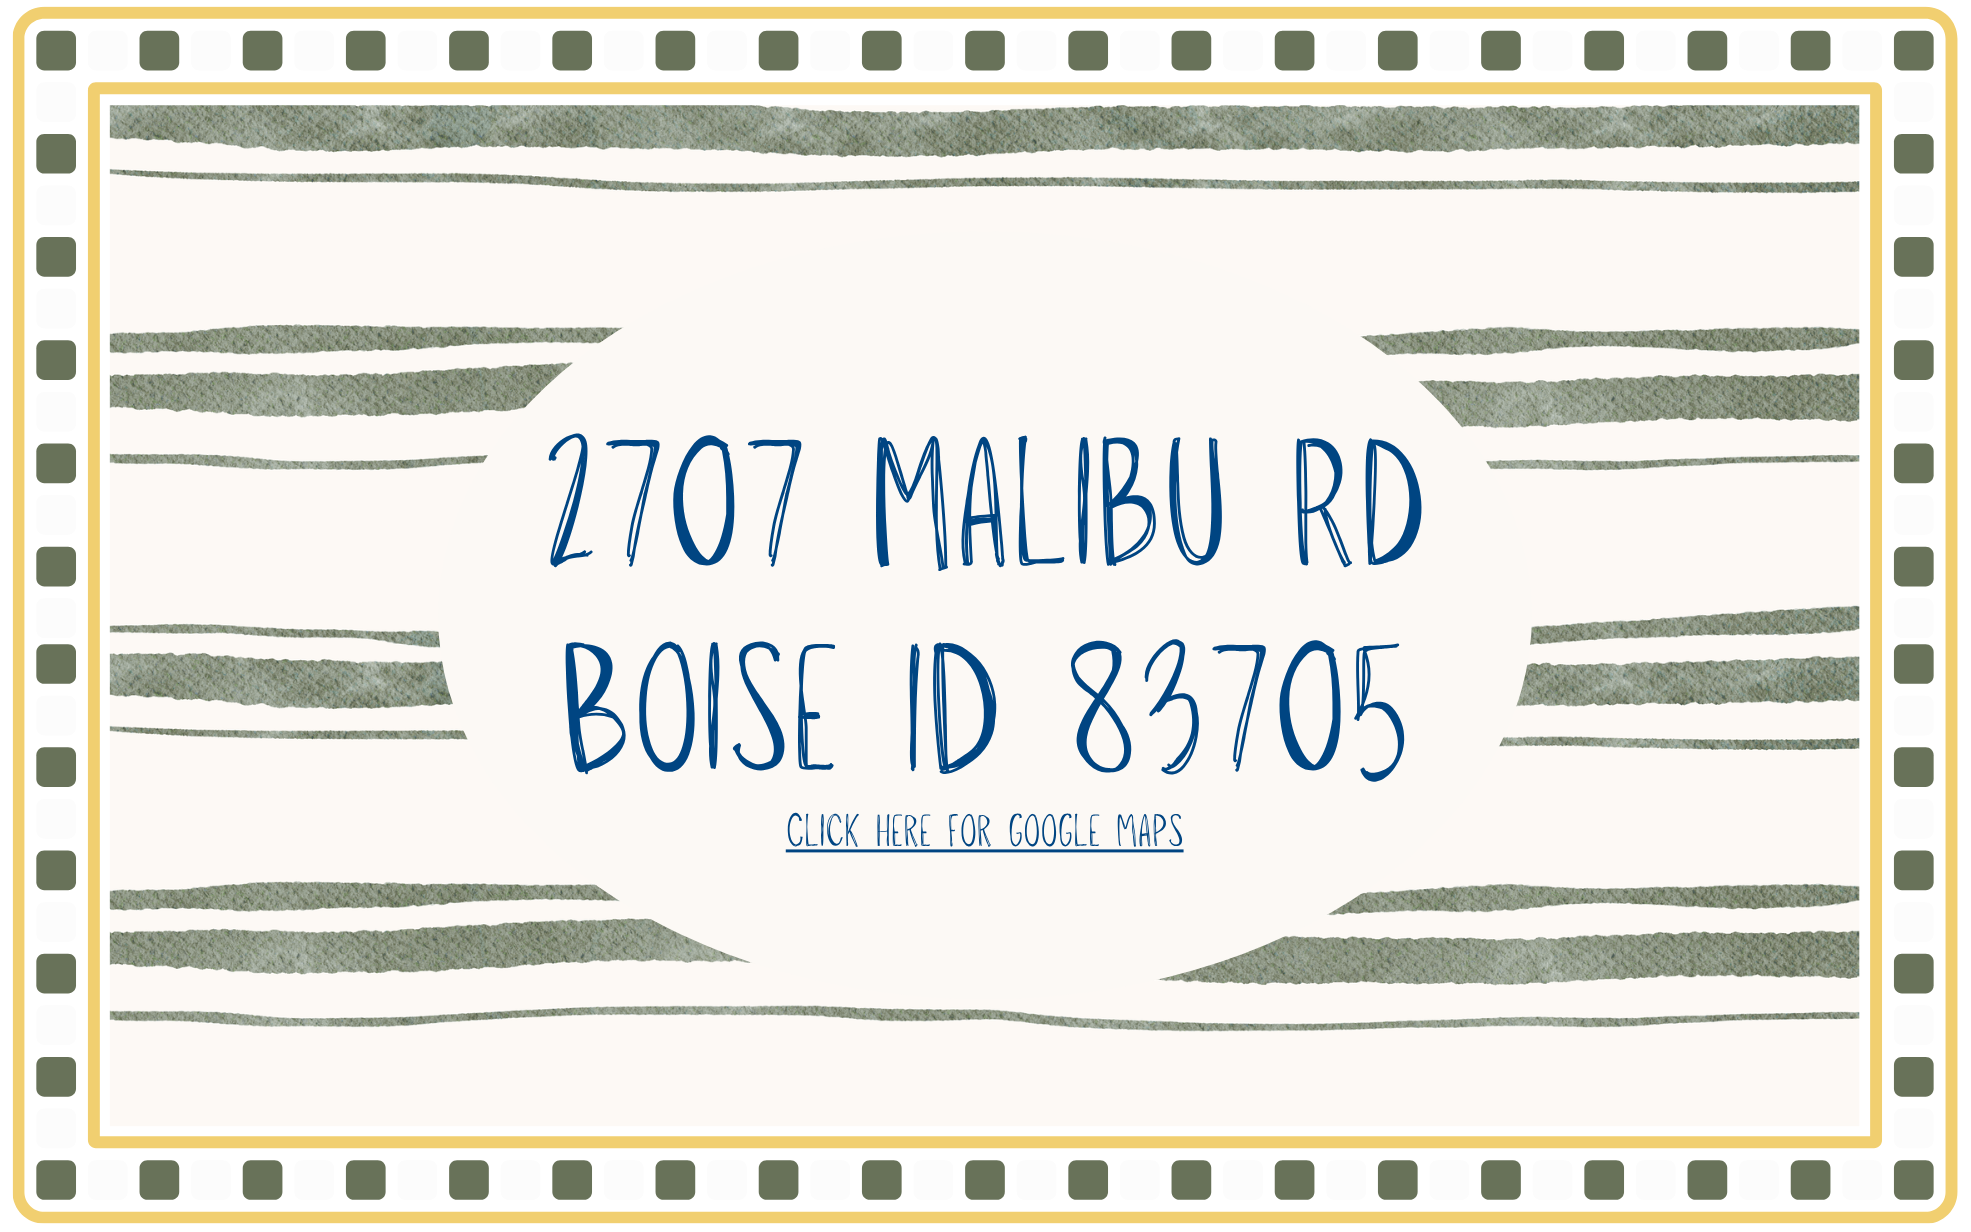
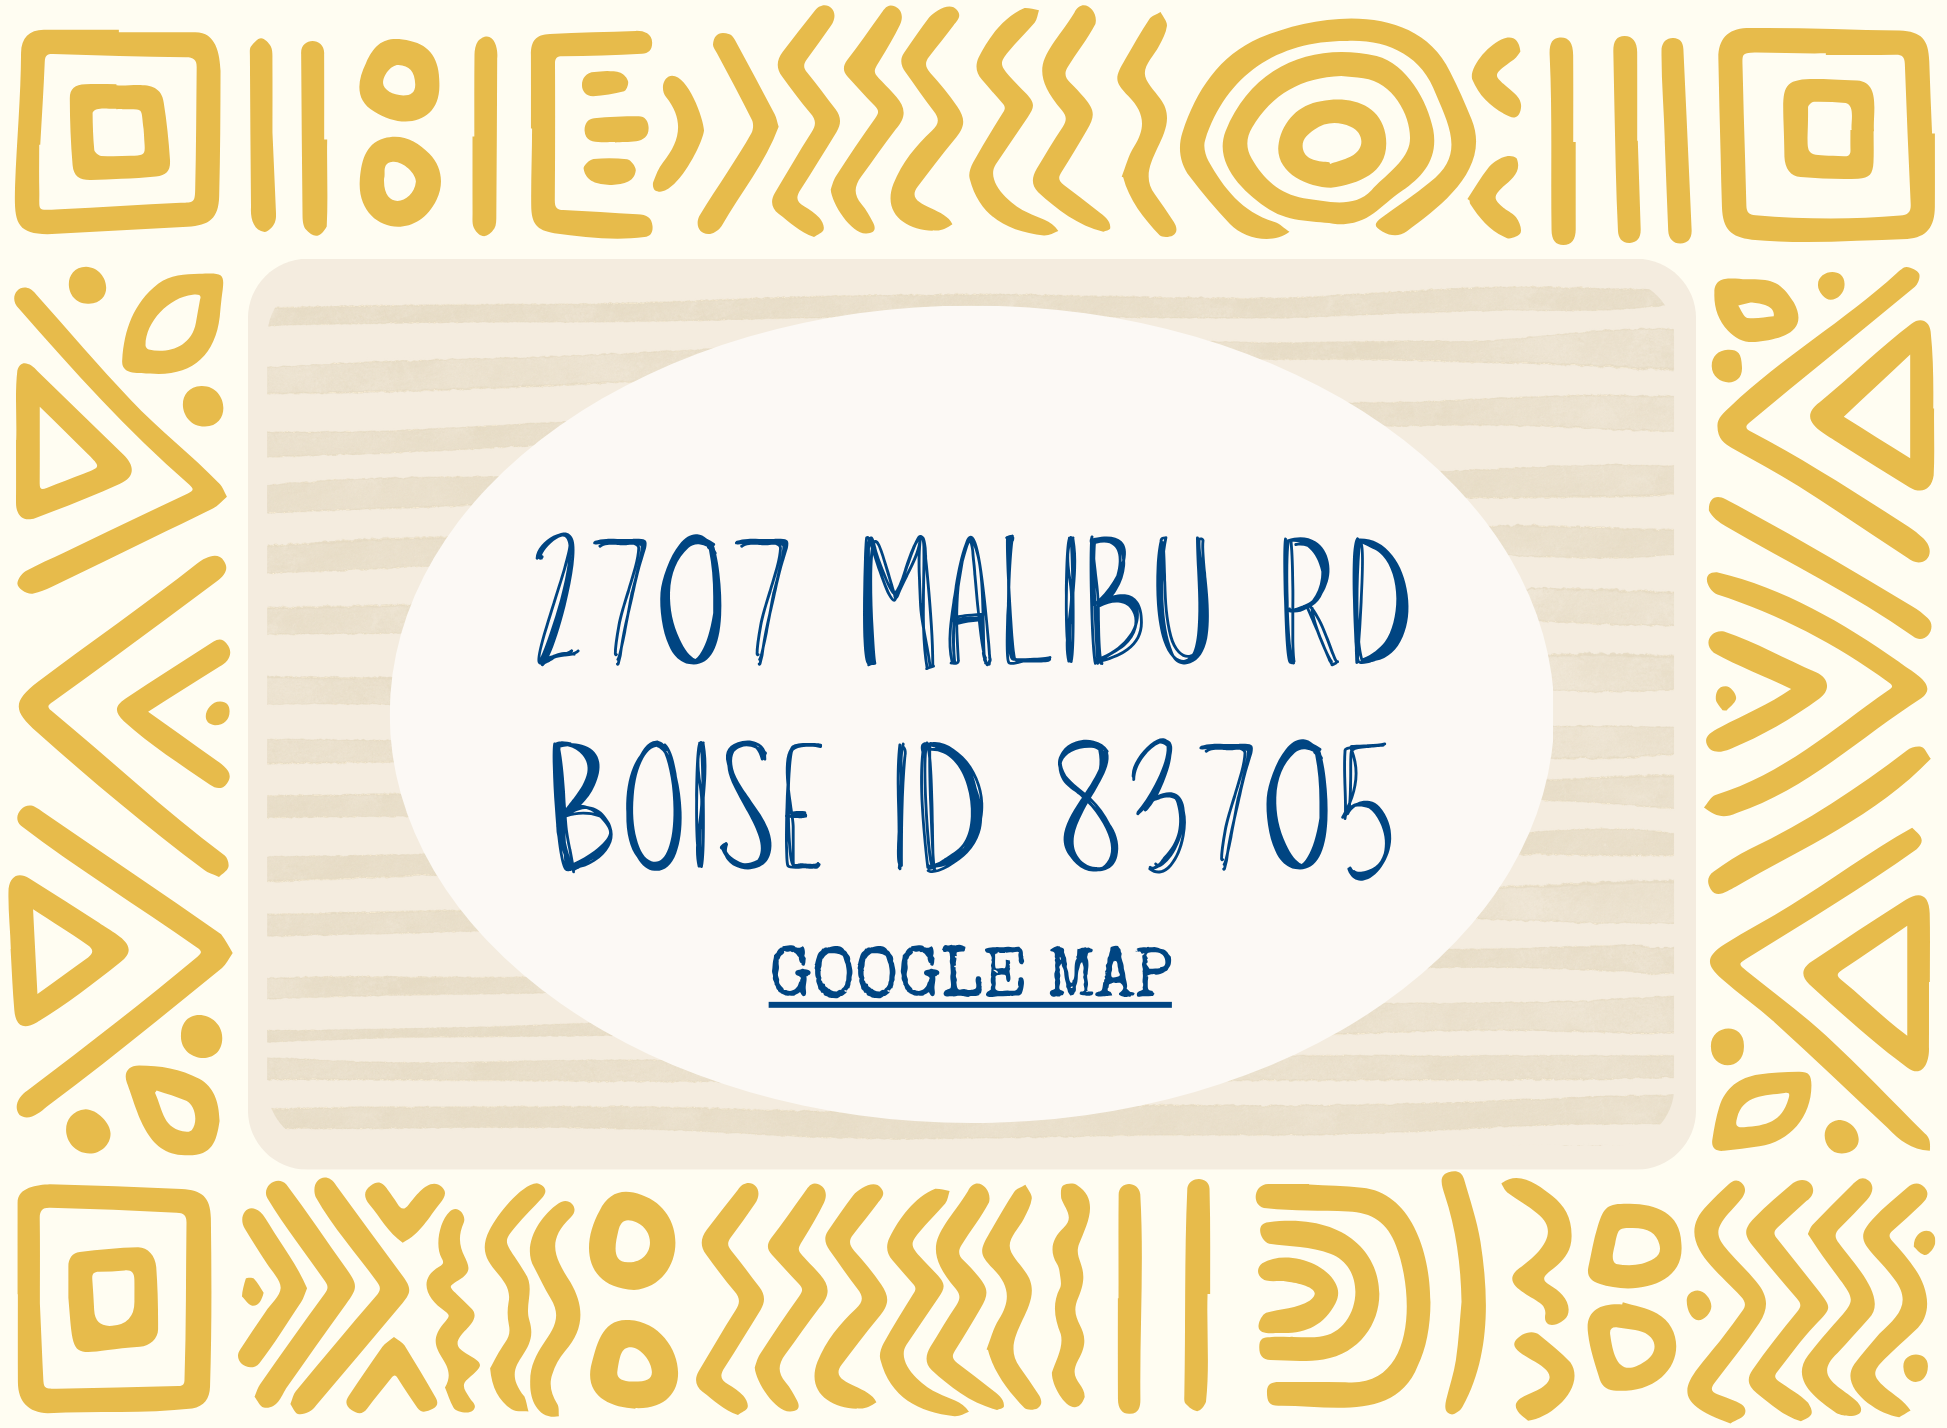
update images and adding airtable routing

diff --git a/app/rsvp/page.tsx b/app/rsvp/page.tsx
@@ -1,8 +1,27 @@
+"use client"
+import { useState } from "react"
 import Image from "next/image"
 import Link from "next/link"
 import { FaArrowLeft } from "react-icons/fa"
 
 export default function RsvpPage() {
+  const [formData, setFormData] = useState({
+    name: "",
+    guests: "",
+    email: "",
+    message: ""
+  })
+
+  const handleSubmit = async (e: React.SubmitEvent) => {
+    e.preventDefault()
+    const res = await fetch("/api/rsvp", {
+      method: "POST",
+      body: JSON.stringify(formData),
+      headers: { "Content-Type": "application/json" }
+    })
+
+    if (res.ok) alert("Submitted successfully!")
+  }
   return (
     <>
       <div className="bg-[url('/lemon-background.png')] bg-repeat-y bg-size-[100%_auto] object-cover">
@@ -18,14 +37,6 @@ export default function RsvpPage() {
             alt=""
             width={200}
             height={400}
-            fill={false}
-          />
-          <Image
-            className="object-scale-down w-24"
-            src="/bike.png"
-            alt=""
-            width={400}
-            height={200}
             fill={false}
           />
           <Image
@@ -46,7 +57,10 @@ export default function RsvpPage() {
           />
         </section>
         <section className="m-4">
-          <form className="bg-background p-4 rounded-lg max-w-xl mx-auto">
+          <form
+            className="bg-background p-4 rounded-lg max-w-xl mx-auto"
+            onSubmit={handleSubmit}
+          >
             <div className="flex justify-center">
               <Image
                 className="object-scale-down w-80 md:70 rounded-sm pb-4"
@@ -61,13 +75,16 @@ export default function RsvpPage() {
             <h2 className="font-heading font-semibold text-gray-900 text-center text-2xl">
               RSVP
             </h2>
+            <p className="font-body text-gray-700 text-center text-xl">
+              Please feel free to drop in anytime between 1 pm and 4 pm.
+            </p>
             <div className="mt-6">
               <div className="my-4">
                 <label
                   htmlFor="name"
-                  className="block text-sm/6 font-medium text-gray-900"
+                  className="block text-lg font-medium text-gray-900 font-body"
                 >
-                  Your name(s)
+                  Your name(s)*
                 </label>
                 <div className="mt-2">
                   <input
@@ -75,18 +92,21 @@ export default function RsvpPage() {
                     type="text"
                     name="name"
                     autoComplete="given-name"
-                    placeholder="Your name(s)"
+                    placeholder="Name(s)"
+                    onChange={(e) =>
+                      setFormData({ ...formData, name: e.target.value })
+                    }
                     required
-                    className="block w-full rounded-md bg-white px-3 py-1.5 text-base text-gray-900 outline-1 -outline-offset-1 outline-gray-300 placeholder:text-gray-400 focus:outline-2 focus:-outline-offset-2 focus:outline-sage sm:text-sm/6"
+                    className="block w-full rounded-md bg-white px-3 py-1.5 text-base text-gray-900 outline-1 -outline-offset-1 outline-gray-300 placeholder:text-gray-400 focus:outline-2 focus:-outline-offset-2 focus:outline-sage sm:text-lg"
                   />
                 </div>
               </div>
               <div className="my-4">
                 <label
                   htmlFor="guests"
-                  className="block text-sm/6 font-medium text-gray-900"
+                  className="block text-lg font-medium text-gray-900 font-body"
                 >
-                  Number in your party (including yourself)
+                  Number in your party (including yourself)*
                 </label>
                 <div className="mt-2">
                   <input
@@ -95,17 +115,20 @@ export default function RsvpPage() {
                     name="guests"
                     placeholder="0"
                     min="1"
+                    onChange={(e) =>
+                      setFormData({ ...formData, guests: e.target.value })
+                    }
                     required
-                    className="block w-20 rounded-md bg-white px-3 py-1.5 text-base text-gray-900 outline-1 -outline-offset-1 outline-gray-300 placeholder:text-gray-400 focus:outline-2 focus:-outline-offset-2 focus:outline-sage sm:text-sm/6"
+                    className="block w-20 rounded-md bg-white px-3 py-1.5 text-base text-gray-900 outline-1 -outline-offset-1 outline-gray-300 placeholder:text-gray-400 focus:outline-2 focus:-outline-offset-2 focus:outline-sage sm:text-lg"
                   />
                 </div>
               </div>
               <div className="my-4">
                 <label
                   htmlFor="email"
-                  className="block text-sm/6 font-medium text-gray-900"
+                  className="block text-lg font-medium text-gray-900 font-body"
                 >
-                  Your preferred contact email
+                  Your preferred contact email*
                 </label>
                 <div className="mt-2">
                   <input
@@ -113,14 +136,19 @@ export default function RsvpPage() {
                     type="email"
                     name="email"
                     autoComplete="email"
-                    className="block w-full rounded-md bg-white px-3 py-1.5 text-base text-gray-900 outline-1 -outline-offset-1 outline-gray-300 placeholder:text-gray-400 focus:outline-2 focus:-outline-offset-2 focus:outline-sage sm:text-sm/6"
+                    placeholder="Email"
+                    onChange={(e) =>
+                      setFormData({ ...formData, email: e.target.value })
+                    }
+                    required
+                    className="block w-full rounded-md bg-white px-3 py-1.5 text-base text-gray-900 outline-1 -outline-offset-1 outline-gray-300 placeholder:text-gray-400 focus:outline-2 focus:-outline-offset-2 focus:outline-sage sm:text-lg"
                   />
                 </div>
               </div>
               <div className="my-4">
                 <label
                   htmlFor="message"
-                  className="block text-sm/6 font-medium text-gray-900"
+                  className="block text-lg font-medium text-gray-900 font-body"
                 >
                   Include a message for Kelly and the baby (optional)
                 </label>
@@ -129,7 +157,11 @@ export default function RsvpPage() {
                     id="message"
                     name="message"
                     rows={3}
-                    className="block w-full rounded-md bg-white px-3 py-1.5 text-base text-gray-900 outline-1 -outline-offset-1 outline-gray-300 placeholder:text-gray-400 focus:outline-2 focus:-outline-offset-2 focus:outline-sage sm:text-sm/6"
+                    placeholder="Message..."
+                    onChange={(e) =>
+                      setFormData({ ...formData, message: e.target.value })
+                    }
+                    className="block w-full rounded-md bg-white px-3 py-1.5 text-base text-gray-900 outline-1 -outline-offset-1 outline-gray-300 placeholder:text-gray-400 focus:outline-2 focus:-outline-offset-2 focus:outline-sage sm:text-lg"
                   ></textarea>
                 </div>
               </div>
@@ -137,7 +169,7 @@ export default function RsvpPage() {
             <div className="flex justify-center my-4">
               <button
                 type="submit"
-                className="rounded-md bg-sage px-3 py-2 text-sm font-semibold text-white shadow-xs hover:bg-indigo-500 focus-visible:outline-2 focus-visible:outline-offset-2 focus-visible:outline-sage"
+                className="rounded-md bg-sage px-3 py-2 text-lg font-semibold text-white shadow-xs hover:bg-indigo-500 focus-visible:outline-2 focus-visible:outline-offset-2 focus-visible:outline-sage font-body"
               >
                 Submit
               </button>

diff --git a/app/page.tsx b/app/page.tsx
@@ -4,7 +4,7 @@ import Link from "next/link"
 export default function Home() {
   return (
     <>
-      <section className="bg-[url('/background.png')] bg-repeat-x bg-size-[auto_100%] pb-18">
+      <section className="bg-[url('/background-hero.png')] bg-repeat-x bg-size-[auto_100%] pb-18">
         <div className="flex justify-center py-28 lg:py-8">
           <Image
             className="w-80 lg:w-120"
@@ -16,9 +16,9 @@ export default function Home() {
         </div>
       </section>
 
-      <div className="bg-[url('/background-body.png')] py-20 min-h-lvh">
-        {/* Name badge section */}
-        <section className="flex flex-col items-center">
+      {/* Below the fold */}
+      <section className="bg-[url('/background-body.png')] py-20 min-h-lvh">
+        <div className="flex flex-col items-center">
           <Image
             className="px-4 pb-4 -rotate-3"
             src="/kelly.png"
@@ -26,105 +26,67 @@ export default function Home() {
             width={500}
             height={300}
           />
-        </section>
 
-        {/* Address and date section */}
-        <section className="flex flex-wrap justify-center gap-4 w-full px-4">
-          <div className="w-100 h-60 md:w-120 md:h-70 relative shrink-0">
+          {/* Locations data */}
+          <div className="lg:flex m-8">
             <Image
-              className="object-contain"
-              src="/time-date.png"
-              alt=""
-              fill
-            />
-          </div>
-          <Link
-            href="https://www.google.com/maps/place/2707+Malibu+Rd,+Boise,+ID+83705/@43.5778988,-116.2306942,17z/data=!3m1!4b1!4m6!3m5!1s0x54ae57e771e1c4d9:0x4afa883c20147fbb!8m2!3d43.5778988!4d-116.2281193!16s%2Fg%2F11c4vx5fg7?authuser=0&entry=ttu&g_ep=EgoyMDI2MDQwMS4wIKXMDSoASAFQAw%3D%3D"
-            target="_blank"
-            className="w-100 h-60 md:w-120 md:h-70 relative shrink-0"
-            aria-label="click here for a google map of 2707 Malibu, Boise ID"
-          >
-            <Image className="object-contain" src="/address.png" alt="" fill />
-          </Link>
-        </section>
-
-        {/* Image collage section */}
-        <section className="my-4">
-          <div className="flex justify-around md:justify-center gap-3 mt-2 mx-4">
-            <Image
-              className="object-scale-down w-18"
-              src="/starfish.png"
-              alt=""
-              width={100}
-              height={50}
-              fill={false}
-            />
-            <Image
-              className="object-scale-down rotate-1"
-              src="/vintage-beach.png"
-              alt=""
-              width={50}
-              height={100}
-              fill={false}
-            />
-            <Image
-              className="object-scale-down w-18 -rotate-2"
-              src="/sailboat.png"
-              alt=""
-              width={50}
-              height={100}
-              fill={false}
-            />
-            <Image
-              className="object-scale-down w-18 -rotate-1"
-              src="/stork.png"
-              alt=""
-              width={50}
-              height={100}
-              fill={false}
-            />
-            <Image
-              className="object-scale-down w-18 rotate-1"
-              src="/shells-in-frame.png"
-              alt=""
-              width={50}
-              height={100}
-              fill={false}
-            />
-          </div>
-          <div className="flex justify-center gap-4 mb-2"></div>
-        </section>
-
-        {/* Registry section */}
-        <section className="flex flex-col items-center pb-4">
-          <a
-            href="https://my.babylist.com/baby-reg-kelly-whipple"
-            target="_blank"
-            rel="noopener noreferrer"
-          >
-            <Image
-              className="lg:w-md"
-              src="/registry.png"
-              alt=""
-              width={300}
-              height={600}
-            />
-          </a>
-        </section>
-
-        {/* RSVP section */}
-        <section className="flex flex-col items-center pb-4">
-          <Link href="/rsvp">
-            <Image
-              className="px-4 lg:px-0"
-              src="/rsvp.png"
-              alt=""
+              className="p-4"
+              src="/date-time.png"
+              alt="Saturday, June 13, 1 pm to 4 pm"
               width={500}
               height={300}
             />
-          </Link>
-        </section>
-      </div>
+            <Link
+              href="https://www.google.com/maps/place/2707+Malibu+Rd,+Boise,+ID+83705/@43.5778988,-116.2306942,17z/data=!3m1!4b1!4m6!3m5!1s0x54ae57e771e1c4d9:0x4afa883c20147fbb!8m2!3d43.5778988!4d-116.2281193!16s%2Fg%2F11c4vx5fg7?authuser=0&entry=ttu&g_ep=EgoyMDI2MDQwMS4wIKXMDSoASAFQAw%3D%3D"
+              target="_blank"
+              aria-label="2707 Malibu, Boise ID; click for a Google map"
+            >
+              <Image
+                className="p-4"
+                src="/address.png"
+                alt=""
+                width={500}
+                height={300}
+              />
+            </Link>
+          </div>
+          <div className="m-4">
+            <Image
+              className=""
+              src="/bike.png"
+              alt=""
+              width={600}
+              height={350}
+            />
+          </div>
+          <div className="m-4">
+            <Link
+              href="https://my.babylist.com/baby-reg-kelly-whipple"
+              target="_blank"
+              rel="noopener noreferrer"
+            >
+              <Image
+                className="lg:w-md"
+                src="/registry.png"
+                alt=""
+                width={300}
+                height={400}
+              />
+            </Link>
+          </div>
+          <div className="m-4">
+            <Link href="/rsvp">
+              <Image
+                className="px-4 lg:px-0"
+                src="/rsvp.png"
+                alt=""
+                width={500}
+                height={300}
+              />
+            </Link>
+          </div>
+        </div>
+      </section>
     </>
   )
 }

diff --git a/app/api/rsvp/route.ts b/app/api/rsvp/route.ts
@@ -1,0 +1,25 @@
+export async function POST(req: Request) {
+  const body = await req.json()
+
+  const res = await fetch(
+    `https://api.airtable.com/v0/${process.env.AIRTABLE_BASE_ID}/RSVPs`,
+    {
+      method: "POST",
+      headers: {
+        Authorization: `Bearer ${process.env.AIRTABLE_TOKEN}`,
+        "Content-Type": "application/json"
+      },
+      body: JSON.stringify({
+        fields: {
+          Name: body.name,
+          "Number of Guests": body.guests,
+          Email: body.email,
+          Message: body.message
+        }
+      })
+    }
+  )
+
+  if (!res.ok) return Response.json({ error: "Failed" }, { status: 500 })
+  return Response.json({ success: true })
+}

diff --git a/app/layout.tsx b/app/layout.tsx
@@ -7,6 +7,7 @@ import {
   Italiana,
   Montserrat
 } from "next/font/google"
+import { Analytics } from "@vercel/analytics/next"
 import "./globals.css"
 import Footer from "@/components/Footer"
 
@@ -77,6 +78,7 @@ export default function RootLayout({
       >
         <main className="overflow-x-hidden">{children}</main>
         <Footer />
+        <Analytics />
       </body>
     </html>
   )
